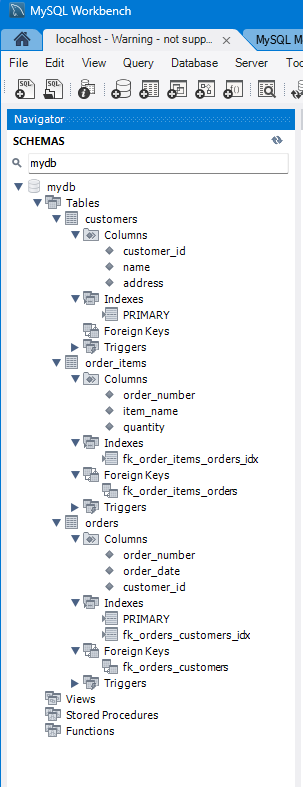
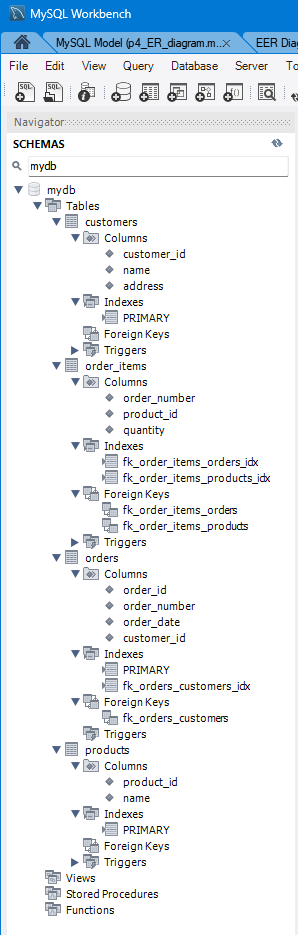
add products table

Changed region(s): [[0.0, 0.0, 1.0, 1.0], [0.604, 0.244, 0.6342, 0.2745]]

diff --git a/README.md b/README.md
@@ -60,10 +60,11 @@ ENGINE = InnoDB;
 -- Table `mydb`.`orders`
 -- -----------------------------------------------------
 CREATE TABLE IF NOT EXISTS `mydb`.`orders` (
-  `order_number` INT UNSIGNED NOT NULL,
+  `order_id` INT UNSIGNED NOT NULL,
+  `order_number` VARCHAR(12) NOT NULL,
   `order_date` DATE NOT NULL,
   `customer_id` INT UNSIGNED NOT NULL,
-  PRIMARY KEY (`order_number`),
+  PRIMARY KEY (`order_id`),
   INDEX `fk_orders_customers_idx` (`customer_id` ASC) VISIBLE,
   CONSTRAINT `fk_orders_customers`
     FOREIGN KEY (`customer_id`)
@@ -74,16 +75,32 @@ ENGINE = InnoDB;
 
 
 -- -----------------------------------------------------
+-- Table `mydb`.`products`
+-- -----------------------------------------------------
+CREATE TABLE IF NOT EXISTS `mydb`.`products` (
+  `product_id` INT NOT NULL,
+  `name` VARCHAR(45) NOT NULL,
+  PRIMARY KEY (`product_id`))
+ENGINE = InnoDB;
+
+
+-- -----------------------------------------------------
 -- Table `mydb`.`order_items`
 -- -----------------------------------------------------
 CREATE TABLE IF NOT EXISTS `mydb`.`order_items` (
   `order_number` INT UNSIGNED NOT NULL,
-  `item_name` VARCHAR(50) NOT NULL,
-  `quantity` INT UNSIGNED NOT NULL,
+  `product_id` INT NOT NULL,
+  `quantity` DECIMAL(9,3) UNSIGNED NOT NULL,
   INDEX `fk_order_items_orders_idx` (`order_number` ASC) VISIBLE,
+  INDEX `fk_order_items_products_idx` (`product_id` ASC) VISIBLE,
   CONSTRAINT `fk_order_items_orders`
     FOREIGN KEY (`order_number`)
-    REFERENCES `mydb`.`orders` (`order_number`)
+    REFERENCES `mydb`.`orders` (`order_id`)
+    ON DELETE NO ACTION
+    ON UPDATE NO ACTION,
+  CONSTRAINT `fk_order_items_products`
+    FOREIGN KEY (`product_id`)
+    REFERENCES `mydb`.`products` (`product_id`)
     ON DELETE NO ACTION
     ON UPDATE NO ACTION)
 ENGINE = InnoDB;
@@ -92,6 +109,7 @@ ENGINE = InnoDB;
 SET SQL_MODE=@OLD_SQL_MODE;
 SET FOREIGN_KEY_CHECKS=@OLD_FOREIGN_KEY_CHECKS;
 SET UNIQUE_CHECKS=@OLD_UNIQUE_CHECKS;
+
 ```
 
 ![](p5_cdated_DB.png)
